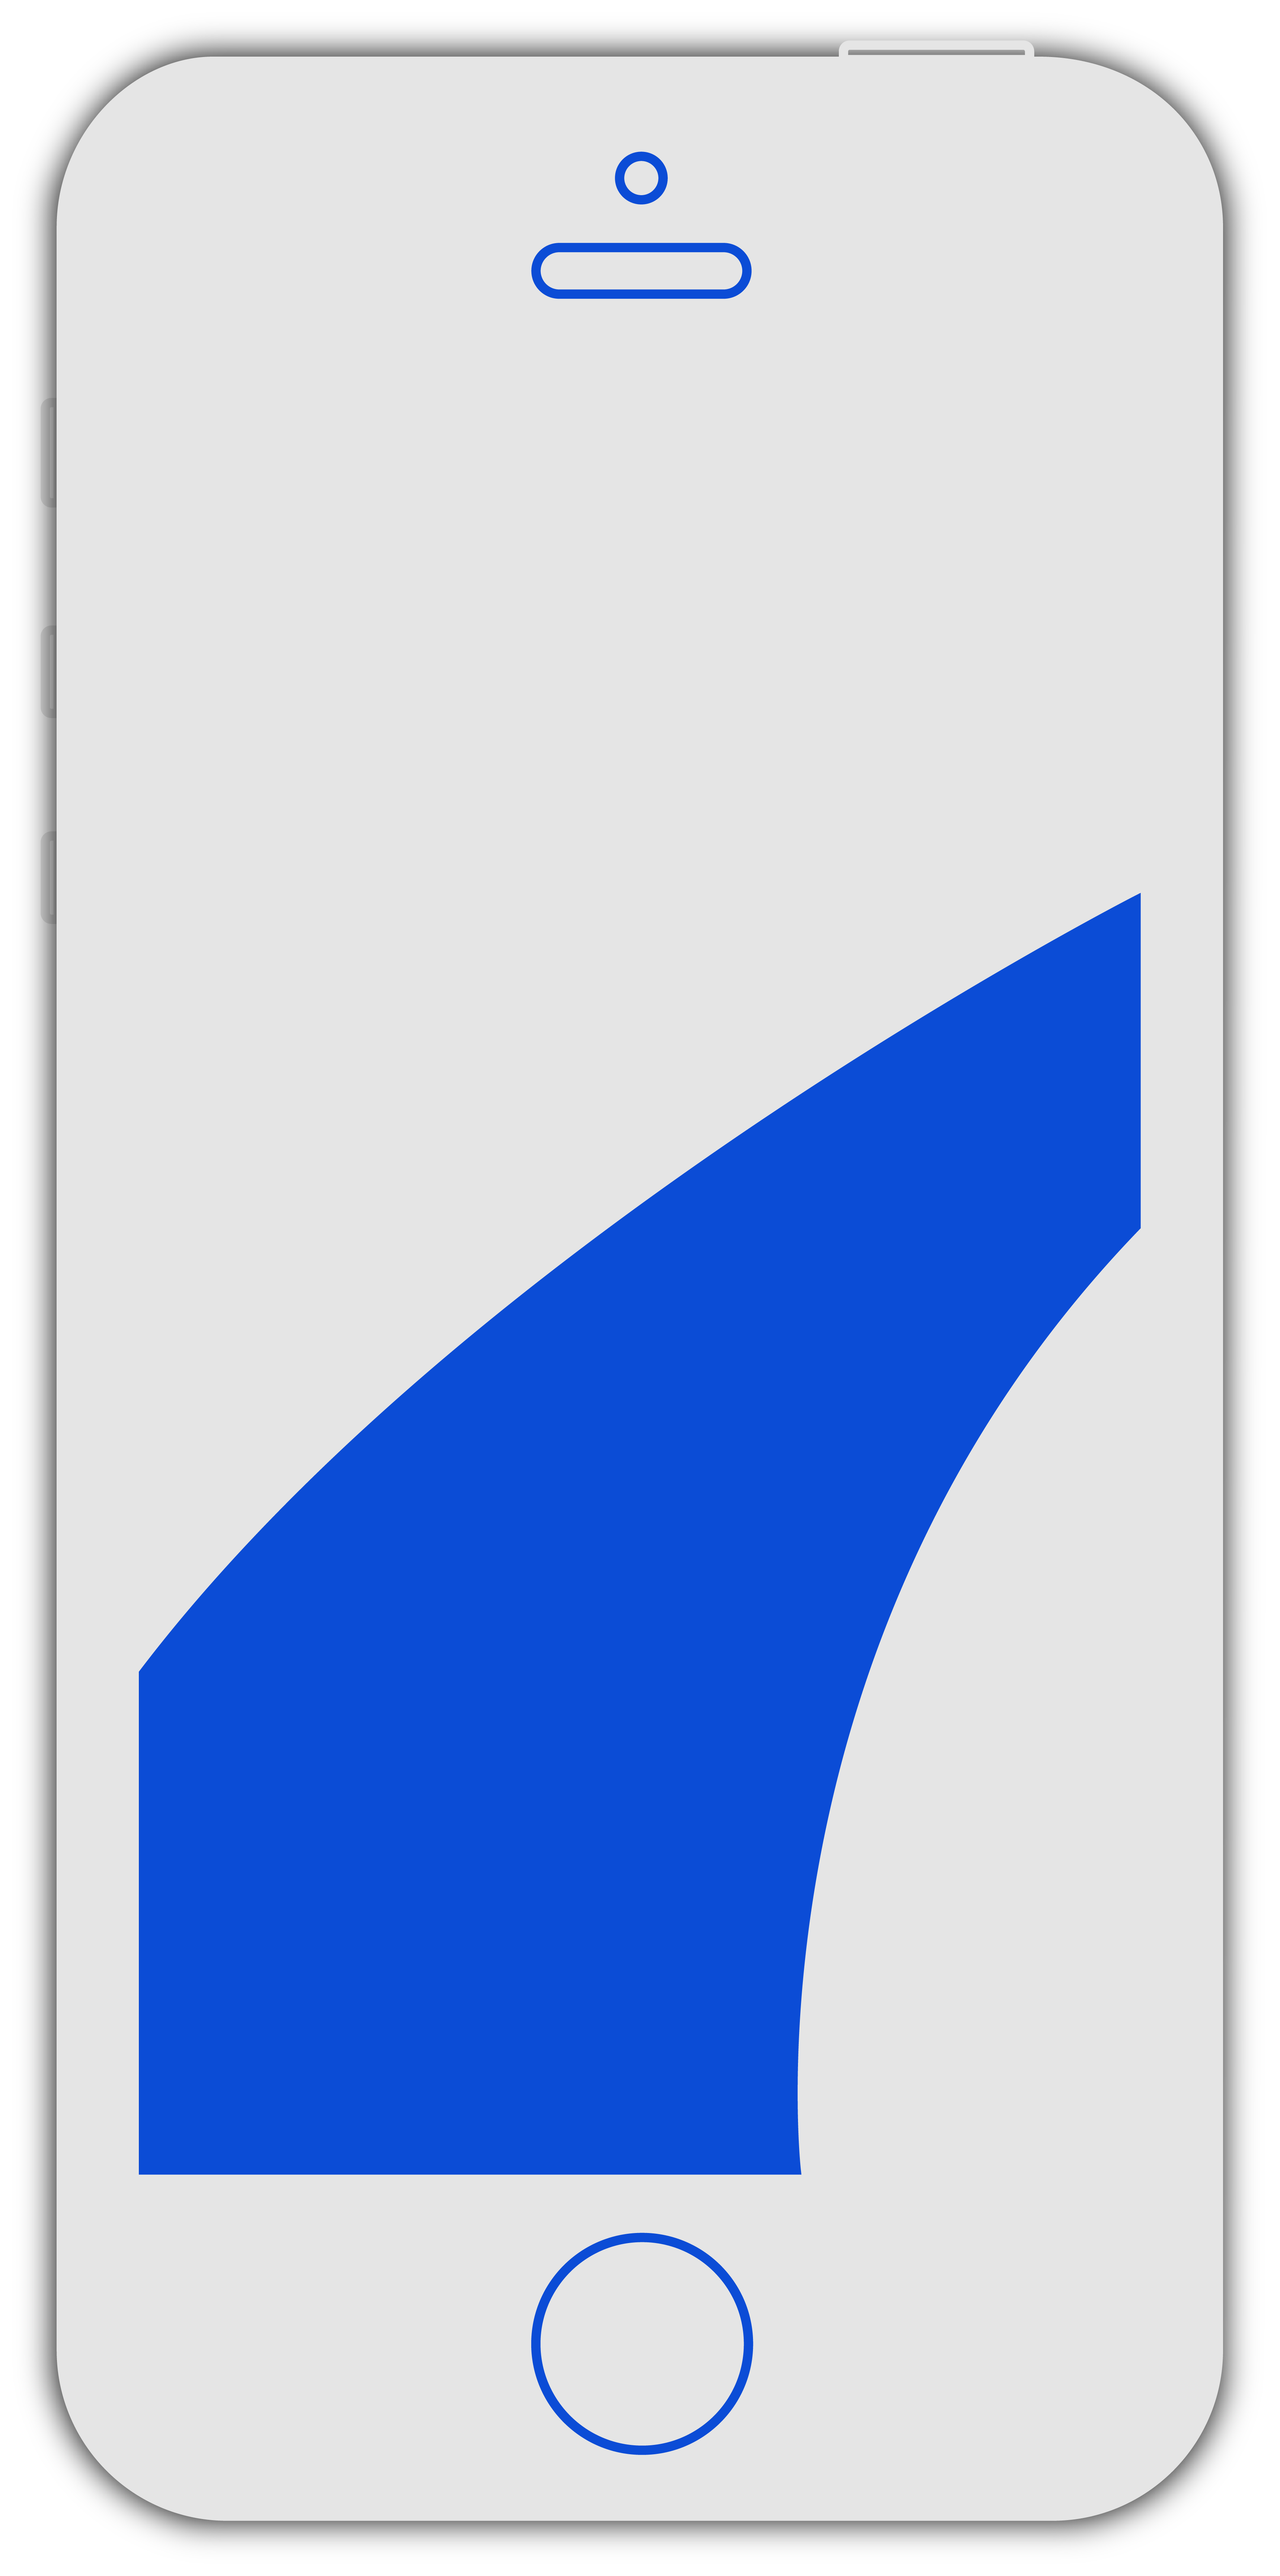
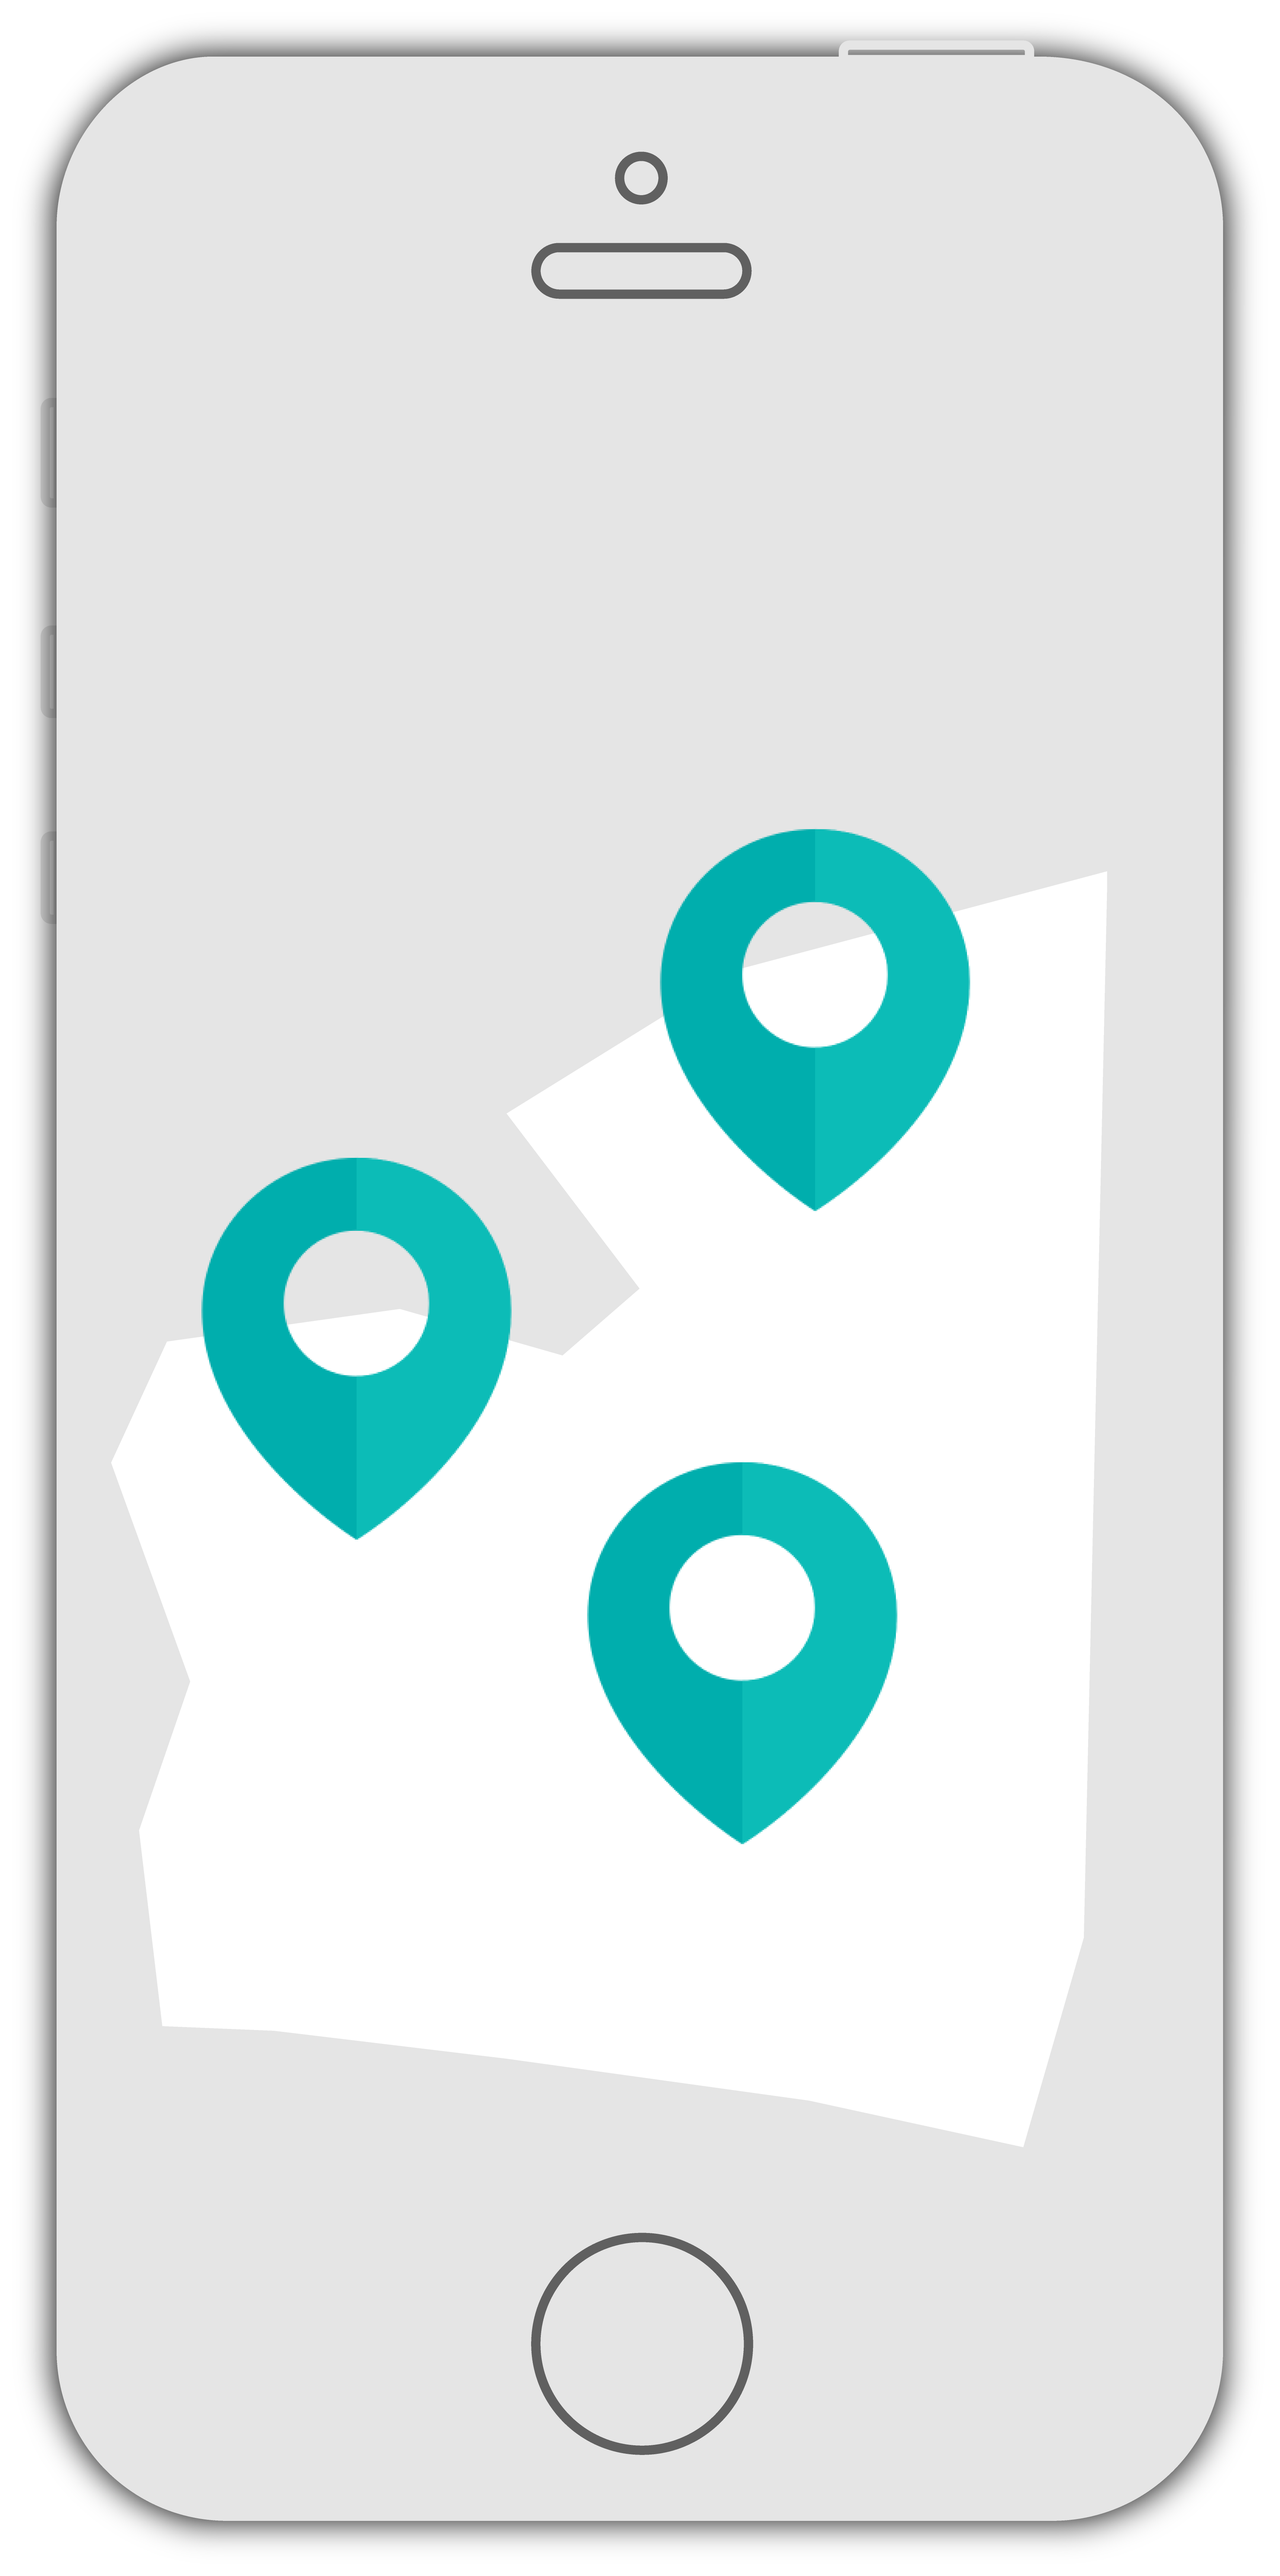
some style changes on the landing page, what do you think of this phone display?

diff --git a/app/assets/stylesheets/welcome/index.scss b/app/assets/stylesheets/welcome/index.scss
@@ -260,7 +260,7 @@
   padding-top: 20px;
 
   h1 {
-    color: $white;
+    color: #1d3148;
     font-family: $font-cursive;
     font-size: 60px;
     font-weight: $thin;
@@ -269,9 +269,8 @@
   }
 
   p {
-    color: $white;
+    color: #1d3148;
     font-size: 18px;
-    font-weight: $thin;
     margin: 0 20px;
     margin-top: 16px;
     text-align: center;
@@ -283,7 +282,7 @@
   }
 
   .glyphicon {
-    color: $white;
+    color: #1d3148;
     font-size: 90px;
     line-height: 150px;
   }
@@ -312,7 +311,7 @@
 // footer
 
 .footer {
-  background: $black;
+  background: #333;
   color: $white;
   padding: 20px 0 80px;
   text-align: right;

diff --git a/app/assets/stylesheets/global.scss b/app/assets/stylesheets/global.scss
@@ -1,4 +1,4 @@
-$primary-color: #0b4cd6;
+$primary-color: #00aead;
 $secondary-color: #fb4148;
 $background-color: rgba(13, 0, 61, .9);
 $tertiary-color: #1e3056;
